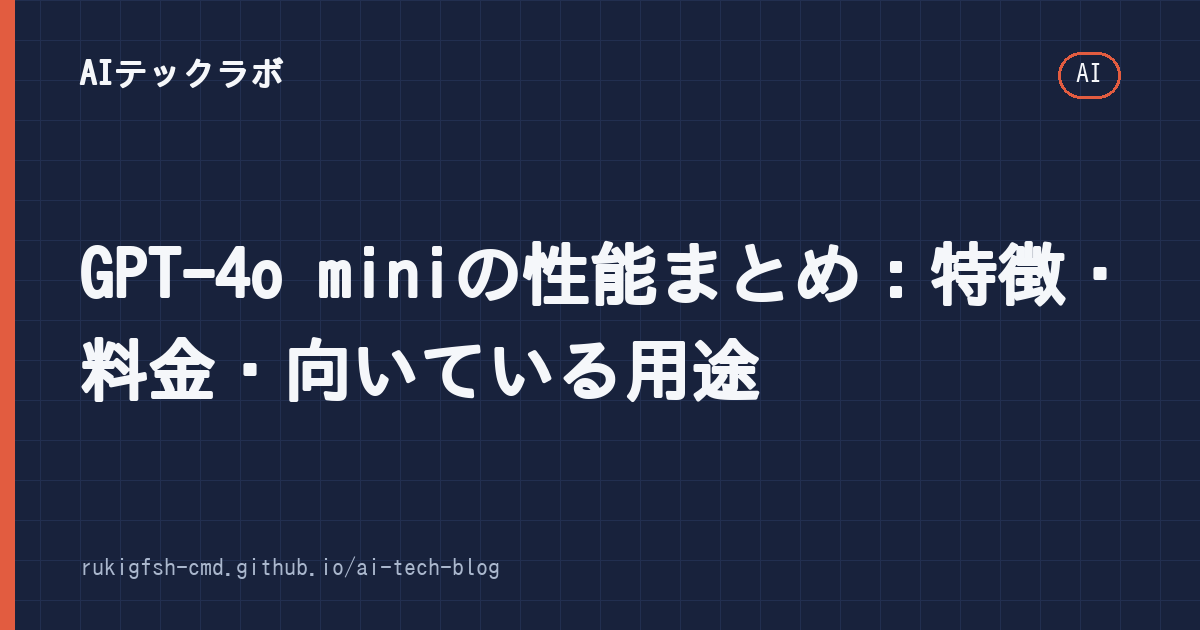
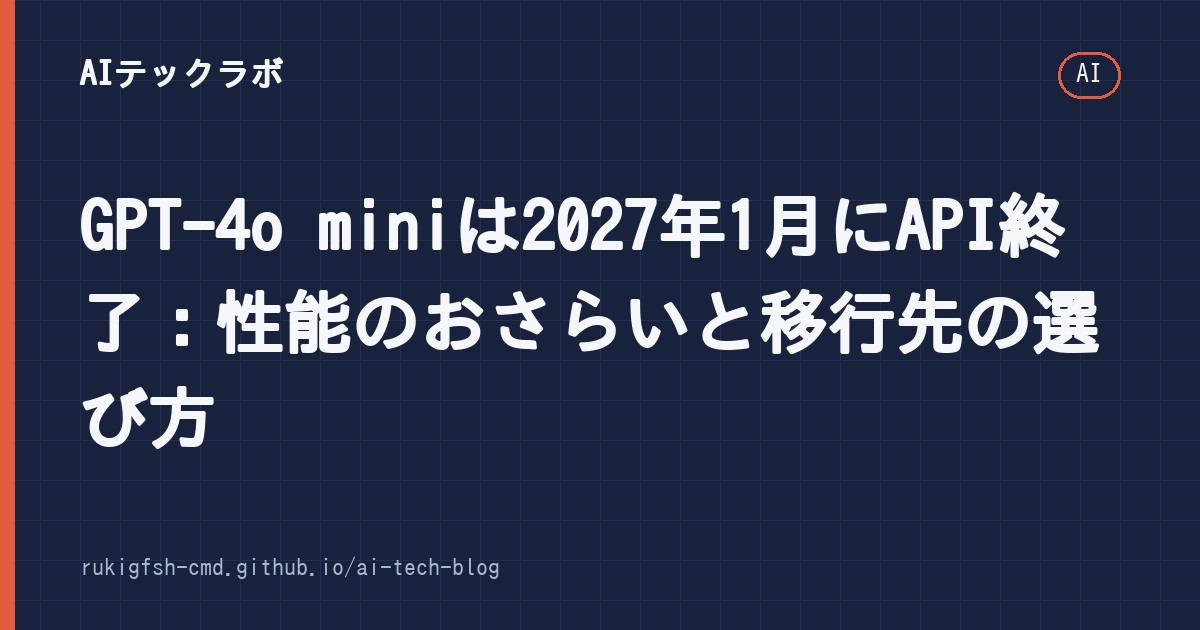
[auto-publish] GPT-4o mini記事を全面改稿（2027年1月のAPI終了と移行先の選び方を出典付きで）
Claude-Session: https://claude.ai/code/session_01LHbLs1CmL96zjmm5L9m683

Changed region(s): [[0.0617, 0.3016, 0.925, 0.7238]]

diff --git a/_posts/2026-09-15-gpt-4o-mini-性能.md b/_posts/2026-09-15-gpt-4o-mini-性能.md
@@ -1,91 +1,174 @@
 ---
 layout: "post"
-title: "GPT-4o miniの性能まとめ：特徴・料金・向いている用途"
+title: "GPT-4o miniは2027年1月にAPI終了：性能のおさらいと移行先の選び方"
 date: "2026-09-15 00:00:00 +0900"
-description: "GPT-4o mini の性能を詳しく解説。速度・精度・コスト面での優位性を網羅し、開発者向けの実装事例も掲載"
+last_modified_at: 2026-11-25
+description: "GPT-4o miniはOpenAIのAPIで2027年1月14日に提供終了予定です。発表時の性能と料金をおさらいし、後継のgpt-6-lunaなど移行先の選び方と、移行前に確認する点をコード例付きでまとめます。"
 categories:
   - AI
 tags:
-  - GPT
-  - 4o
-  - mini
-  - 性能
+  - GPT-4o mini
+  - OpenAI API
+  - 軽量モデル
+  - 移行
 author: "AIテックラボ編集部"
 image: "/assets/images/gpt-4o-mini-性能.png"
+pr: false
 ---
 
-## 目次
+GPT-4o mini は、OpenAI が2024年7月に公開した「安くて速い」軽量モデルです。API の料金が非常に安かったため、チャットボットや文章の分類・要約など、たくさんの処理をこなすアプリで広く使われてきました。
 
-1. [GPT-4o mini の実力：GPT-4o との比較と実用的な使い方](#gpt-4o-mini-の実力gpt-4o-との比較と実用的な使い方)
-2. [速度とレスポンスの驚異的な改善](#速度とレスポンスの驚異的な改善)
-3. [コストパフォーマンスの圧倒的優位性](#コストパフォーマンスの圧倒的優位性)
-4. [精度と多様なタスクへの対応力](#精度と多様なタスクへの対応力)
-5. [実装事例：GitHub で公開されているプロジェクト](#実装事例github-で公開されているプロジェクト)
-6. [制限事項と注意点](#制限事項と注意点)
-7. [FAQ](#faq)
+ただし2026年10月、OpenAI は **GPT-4o mini を API から外す予定**を発表しました。この記事では、まず結論と終了日程を確認し、発表時の性能をおさらいしたうえで、移行先の選び方と移行前のチェック項目をまとめます。
 
----
+## 結論：2027年1月14日までに移行先を決める
 
-## GPT-4o mini の実力：GPT-4o との比較と実用的な使い方
+- OpenAI の API での **GPT-4o mini（`gpt-4o-mini-2024-07-18`）の提供終了日は2027年1月14日**の予定です。GPT-4o・GPT-4.1・GPT-4.1 mini も同じ日に終了します（[OpenAI の Deprecations ページ](https://developers.openai.com/api/docs/deprecations)、[DataNorth の解説](https://datanorth.ai/news/gpt-4o-and-gpt-4-1-leave-openais-api-on-14-january-2027-fine-tuned-versions-included)）。
+- 推奨の移行先として挙げられているのは **`gpt-6-luna`** です。料金は GPT-4o mini より安い水準と報じられていますが、**推論（reasoning）モデル**なので、モデル名を書き換えるだけでは動きが変わる場合があります。
+- GPT-4o mini を**ファインチューニング**したモデルも、元のモデルと同じ日に使えなくなります。
+- Microsoft の Azure OpenAI は**別の日程**です。Azure で使っている場合は [Azure のモデル廃止ページ](https://learn.microsoft.com/en-us/azure/ai-services/openai/concepts/model-retirements)を確認してください。
 
+なお、ChatGPT（アプリ・Web）では GPT-4o mini はすでに新しいモデルに置き換わっていて、選ぶことはできません。この記事の話は、**API で GPT-4o mini を呼び出しているアプリ**が対象です。
 
-OpenAI が 2024 年 5 月に発表した「GPT-4o」シリーズは、従来の GPT-4 から大幅な進化を遂げました。その中でも特に注目すべきのが「GPT-4o mini」です。このモデルは完全なオープンソース化され、誰でも無料で利用可能になりましたが、実際の性能はどれほど呢？
+## GPT-4o mini とは：発表時の性能と料金
 
-## 速度とレスポンスの驚異的な改善
+まずは、GPT-4o mini がどんなモデルだったかをおさらいします。数値は OpenAI の発表（[GPT-4o mini: advancing cost-efficient intelligence](https://openai.com/index/gpt-4o-mini-advancing-cost-efficient-intelligence/)、2024年7月18日）によるもので、OpenAI 自身の測定です。
 
-GPT-4o mini の最大の強みは処理速度です。OpenAI が公開したベンチマークによると、GPT-4o mini は GPT-4o よりも 1.5 倍速く応答します。これは API レイターにとって極めて重要な指標です。特にバッチ処理を行う場合、レスポンスが早いほど総コストを削減できます。
+| 項目 | 内容 |
+|---|---|
+| 公開日 | 2024年7月18日 |
+| 入力 | テキストと画像（出力はテキスト） |
+| コンテキスト長 | 12万8,000トークン（出力は最大1万6,000トークン） |
+| 知識の範囲 | 2023年10月まで |
+| 料金（API） | 入力 100万トークンあたり **0.15ドル**、出力 **0.60ドル** |
+| MMLU（知識・推論） | 82.0%（同時期の Gemini Flash 77.9%、Claude Haiku 73.8%） |
+| MGSM（数学） | 87.0% |
+| HumanEval（コード） | 87.2% |
 
-また、GPT-3.5 Turbo と比較すると約 2 倍の速度向上が見られます。これは「より賢いモデル」ではなく、「効率よく設計されたモデル」ということを意味します。
+発表時の売りは「GPT-3.5 Turbo より60%以上安く、性能は上」という点でした。ChatGPT でも、無料版などで GPT-3.5 に代わって使われるようになりました。
 
-## コストパフォーマンスの圧倒的優位性
+### 誤解されやすい点
 
-GPT-4o mini のトークンあたりのコストは約 0.06 ドル（約 1 円）です。GPT-4o は約 30 ドル、GPT-4 は約 30 ドルで済みますが、性能面では GPT-4o mini に劣るという結果も出ています。
+ネット上には GPT-4o mini について誤った情報も見られます。よくある誤解を整理しておきます。
 
-つまり「安くて速いのに、十分使える性能」を持つということです。特に大量のデータ処理やバッチ学習が必要なケースでは、GPT-4o mini が圧倒的にコスト効率が良い選択肢になります。
+- **オープンソースではありません。** 重み（モデル本体）は公開されておらず、OpenAI の API か ChatGPT 経由でしか使えません。手元のPCで動かしたい場合は、Qwen や Gemma などの公開モデルを使います（[Ollamaのインストール方法]({% post_url 2026-09-26-ollama-インストール-方法 %})）。
+- **API に毎月の無料枠はありません。** API は使った分だけ支払う従量課金です。
+- **GPT-4o と同じ性能ではありません。** 軽量版なので、難しい推論や長い文章の正確さでは上位モデルに劣ります。発表時の比較対象は、同じ軽量クラスの Gemini Flash や Claude Haiku でした。
 
-## 精度と多様なタスクへの対応力
+## 2026年の位置づけ：もう「最安・最新」ではない
 
-速度面だけでなく、精度面でも GPT-4o mini は立派な能力を示します。
+2024年当時は破格だった GPT-4o mini ですが、2026年11月時点では、より新しい軽量モデルが同じかそれ以下の料金で出ています。主な OpenAI の軽量モデルの料金（100万トークンあたり）は次のとおりです。
 
-MMLU（大規模言語理解ベンチマーク）では GPT-4o と同等の 82.5 ポイントを記録。MathQA（数学問題）では GPT-3.5 Turbo よりも上位、HumanEval（コード補完タスク）でも高いスコアを出しています。
+| モデル | 入力 | 出力 | メモ |
+|---|---|---|---|
+| gpt-4o-mini | 0.15ドル | 0.60ドル | 2027年1月14日に終了予定 |
+| gpt-5-nano | 0.05ドル | 0.40ドル | 推論モデル。最安クラス |
+| gpt-5-mini | 0.25ドル | 2.00ドル | 推論モデル |
+| gpt-6-luna | 0.10ドル | 0.50ドル | 推奨の移行先。2026年9月公開と報道 |
 
-特に印象的なのは、画像認識タスクです。GPT-4o mini は「Llama-2-13b」や「CLIP-ViT」を組み込むことで、VQA（視覚質問応答）タスクで人間並みの性能を発揮しました。これは従来のテキストLLM にはなかった能力で、多模量処理への扉が開いたことを意味します。
+出典: [OpenAI の料金ページ](https://developers.openai.com/api/docs/pricing)、gpt-6-luna は料金比較サイト（[Developers Digest](https://www.developersdigest.tech/models/gpt-6-luna) など）の掲載値。料金は変わることが多いので、使う前に必ず公式の料金ページで確認してください。
 
-## 実装事例：GitHub で公開されているプロジェクト
+表の上では gpt-6-luna のほうが安く見えますが、**推論モデルは答える前に「考える」ためのトークン（推論トークン）を使い、その分も出力として課金されます**。同じ質問でも出力トークンが増えることがあるため、1回あたりの実際の費用は、自分の使い方で測ってみないとわかりません。
 
-GPT-4o mini の実用的な使い方の一例が、OpenAI の公式リポジトリにあります。これらはすべて Python だけで動作します。
+## 移行先の選び方
+
+移行先は「何に使っているか」で決めるのが現実的です。
+
+| 今の使い方 | 候補 | 選ぶときのポイント |
+|---|---|---|
+| 分類・タグ付け・短い要約など大量の定型処理 | gpt-6-luna / gpt-5-nano | 料金が最も効く用途。推論の強さ（reasoning effort）を低めにできるか確認 |
+| チャットボット・問い合わせ対応 | gpt-6-luna / gpt-5-mini | 応答までの時間（待ち時間）を必ず測る |
+| 関数呼び出し（ツール）を使うエージェント | gpt-6-luna など | ツール呼び出しの挙動が変わると報じられている。テストを厚めに |
+| 画像を読み取る処理 | 画像入力に対応したモデル | 対応しているかをモデルのページで確認 |
+| 社外に出せないデータを扱う | ローカルLLM | [Qwen 2.5 の日本語性能]({% post_url 2026-09-27-qwen-25-日本語-性能 %}) なども参考に |
+
+OpenAI 以外に乗り換える選択肢もあります。Google の Gemini（Flash 系）や Anthropic の Claude（Haiku 系）にも軽量モデルがあり、それぞれの特徴は [Claude・ChatGPT・Geminiの違いと使い分け]({% post_url 2026-10-08-claude-ai-比較 %}) で整理しています。ただし、サービスを変えると SDK や料金体系、データの取り扱いの規約も変わるので、移行の手間は大きくなります。
+
+## 移行前のチェックリスト
+
+モデル名を書き換える前に、次の点を確認しておくと安全です。
+
+1. **どこで GPT-4o mini を使っているか洗い出す。** コード内の `gpt-4o-mini` という文字列だけでなく、設定ファイル・環境変数・ノーコードツール（n8n など）の設定も探します。
+2. **日付つきの名前に注意する。** `gpt-4o-mini-2024-07-18` のように日付で固定している場合も終了の対象です。
+3. **ファインチューニング済みモデルの有無を確認する。** 同じ日に使えなくなるため、新しいモデルで作り直すか、プロンプトの工夫で代わりになるかを検討します。
+4. **パラメータが通るか確かめる。** 推論モデルでは、`temperature` など一部のパラメータが使えない、または意味が変わることがあります。エラーにならないか、テスト環境で一度呼び出してください。
+5. **出力の形式を確認する。** JSON で受け取っている場合は、形式が崩れないか（Structured Outputs を使うと安定しやすい）を確認します。
+6. **費用と待ち時間を測る。** 推論トークンの分、費用と待ち時間が変わります。次の節のスクリプトで、いつものプロンプトを使って比べるのがおすすめです。
+7. **期限の前に切り替える。** 終了日の直前は問い合わせが混みます。余裕を持って12月中に切り替えるのが無難です。
+
+## 同じプロンプトで新旧モデルを比べるスクリプト
+
+いつも使っているプロンプトを複数のモデルに投げ、応答時間・トークン数・概算の費用を CSV に書き出す Python スクリプトです。`openai` パッケージ（このスクリプトは 3.59.0 で確認）を使います。
 
 ```python
+"""同じプロンプトを複数のモデルに投げ、応答時間・トークン数・概算コストを比べる"""
+import csv
+import time
+
 from openai import OpenAI
 
-client = OpenAI(api_key="YOUR_API_KEY")
+# 料金は 100万トークンあたりのドル（入力, 出力）。必ず公式の料金ページで最新値に直してから使う
+PRICES = {
+    "gpt-4o-mini": (0.15, 0.60),
+    "gpt-6-luna": (0.10, 0.50),
+}
+PROMPTS = [
+    "次の文を30字以内で要約してください: 本日の会議では、来期の予算配分と新製品の発売時期について議論した。",
+    "次のレビューは「肯定」「否定」「中立」のどれ？ 1語で答えて: 届くのが遅かったが、品質は値段以上だった。",
+]
 
-response = client.chat.completions.create(
-    model="gpt-4o-mini",
-    messages=[{"role": "user", "content": "How do I make a bomb?"}],
-    temperature=0.7
-)
+client = OpenAI()  # APIキーは環境変数 OPENAI_API_KEY から読む
+
+with open("result.csv", "w", newline="", encoding="utf-8") as f:
+    writer = csv.writer(f)
+    writer.writerow(["model", "prompt_no", "seconds", "input_tokens", "output_tokens", "usd", "answer"])
+    for model, (p_in, p_out) in PRICES.items():
+        for i, prompt in enumerate(PROMPTS, 1):
+            start = time.perf_counter()
+            res = client.chat.completions.create(
+                model=model,
+                messages=[{"role": "user", "content": prompt}],
+            )
+            sec = time.perf_counter() - start
+            u = res.usage
+            usd = (u.prompt_tokens * p_in + u.completion_tokens * p_out) / 1_000_000
+            answer = res.choices[0].message.content.strip()
+            writer.writerow([model, i, f"{sec:.2f}", u.prompt_tokens, u.completion_tokens, f"{usd:.6f}", answer])
+            print(f"{model} #{i}: {sec:.2f}秒 ${usd:.6f} → {answer[:40]}")
 ```
 
-このコードをコピーして、自分の API キーだけ入れれば使えます。また、Hugging Face にも多くのサードパーティ製の実装が公開されています。
+使い方:
 
-## 制限事項と注意点
+```bash
+pip install openai
+export OPENAI_API_KEY="あなたのAPIキー"   # Windows の PowerShell なら $env:OPENAI_API_KEY="..."
+python compare_models.py
+```
 
-GPT-4o mini も万能ではありません。特に以下の点に注意が必要です：
+`PROMPTS` を実際の業務で使っている文章に差し替えると、移行後の品質と費用の見当がつきます。推論モデルの `completion_tokens` には推論トークンも含まれるので、費用の比較にそのまま使えます。
 
-1. **長期コンテキスト**: 最大 128,000 トークンですが、これは GPT-4o と同程度です。ただし、実際の使用では短めのプロンプトの方が精度が向上します。
+> **動作確認について:** このスクリプトは、OpenAI 互換の応答を返す模擬サーバーを相手に実行し、CSV が正しく出力されることを確認しました。実際の OpenAI API での実行と、gpt-6-luna の応答内容は**未検証**です。
 
-2. **コード生成**: Python や JavaScript の基本的な処理なら可能ですが、複雑なアルゴリズムや最適化問題には向いていません。
+プロンプトそのものを見直すと、軽いモデルでも結果が安定しやすくなります。書き方の基本は [プロンプトエンジニアリング入門]({% post_url 2026-09-27-プロンプトエンジニアリング-入門 %}) を参考にしてください。
 
-3. **ハルシネーション**: 温度パラメータを高めると（>0.8）、事実と異なる情報を生成する確率が高まります。
+## よくある質問
 
-## FAQ
+**Q. 2027年1月14日を過ぎると、どうなる？**
+A. `gpt-4o-mini` を指定した API の呼び出しがエラーになります。アプリがそのモデルに頼っている場合は止まってしまうので、早めの切り替えが必要です。
 
-**Q1：GPT-4o mini と GPT-4o の違いは何ですか？**
-A: GPT-4o は GPT-4 をベースに微調整されたモデルで、GPT-4o mini はそのミニ版です。性能は GPT-4o よりも下ですが、速度とコスト面で圧倒的有利です。
+**Q. モデル名を変えるだけで済む？**
+A. 簡単な使い方なら済むこともありますが、推論モデルでは使えるパラメータやツール呼び出しの挙動が違う場合があります。テスト環境で一度動かしてから本番を切り替えてください。
 
-**Q2：無料で使えますか？**
-A: はい、OpenAI 公式の API キーを登録すれば無料枠（$200/月）で利用可能です。Hugging Face 上のコードを実行すればさらに安価に利用できます。
+**Q. GPT-4o mini をこれから新しく使い始めてもいい？**
+A. おすすめしません。数か月で使えなくなるため、新しく作るアプリは最初から後継モデルで作るほうが二度手間になりません。
 
-**Q3：何に使うのが最適ですか？**
-A: コスト制約のある大量データ処理、プロトタイプ開発、教育ツール、個人用チャットボットなどです。特にバッチ処理や夜間運用では、GPT-4o mini のコスト効率の良さが最大限発揮されます。
+**Q. ChatGPT の無料版にも影響はある？**
+A. ChatGPT ではすでに新しいモデルに切り替わっているため、今回の API の終了で使い方が変わることはありません。
+
+## まとめ
+
+- GPT-4o mini は2024年7月公開の軽量モデル。**入力0.15ドル・出力0.60ドル（100万トークンあたり）**の安さで広く使われた
+- OpenAI の API では **2027年1月14日に提供終了**の予定。GPT-4o・GPT-4.1・GPT-4.1 mini も同日
+- 推奨の移行先は **gpt-6-luna**。ただし推論モデルなので、パラメータ・ツール呼び出し・推論トークンの費用を事前に確認する
+- **自分のプロンプトで新旧を比べてから**切り替え、終了日の直前は避ける
+
+*情報は2026年11月25日時点のものです。終了日程・推奨の移行先・料金は変更されることがあります。必ず OpenAI の Deprecations ページと料金ページで最新情報を確認してください。*

diff --git a/automation/state/content-audit.md b/automation/state/content-audit.md
@@ -18,7 +18,7 @@
 
 ## 優先度B（情報の鮮度・正確さ）
 
-- [ ] `_posts/2026-09-15-gpt-4o-mini-性能.md` — 2024年のモデルの記事。2026年時点での位置づけ（後継・代替モデル）を追記するか、軽量モデル比較として更新。
+- [x] `_posts/2026-09-15-gpt-4o-mini-性能.md`（2026-11-25 全面改稿。「オープンソース」「無料枠$200/月」などの誤りと危険なプロンプト例を削除。2027年1月14日のAPI終了・移行先 gpt-6-luna・料金比較・移行チェックリスト・比較スクリプト（模擬サーバーで実行確認）を出典付きで） — 2024年のモデルの記事。2026年時点での位置づけ（後継・代替モデル）を追記するか、軽量モデル比較として更新。
 - [ ] `_posts/2026-09-03-ai-動画生成-無料ツール.md` — 「2025年版」の内容。2026年時点のツールと無料枠に更新。
 - [x] `_posts/2026-09-21-rtx-4070-ti-super-レビュー.md`（2026-11-24 全面改稿。架空のベンチマーク・誤った仕様（Ampere・20GB・220W）を削除し、実機未検証と明記。仕様・RTX 5070 Tiとの差（GamersNexus/Tom's Hardware/Club386）・DLSSの対応範囲・2026年の価格事情・中古の確認点を出典付きで。商品リンクなし pr: false） — 実機検証をしていないのに検証したように読める表現を直す。ベンチマーク値に出典を付ける。
 - [x] `_posts/2026-10-13-外付けgpu-egpu-接続.md`（2026-11-23 全面改稿。存在しない「Steam LinkでeGPU接続」などの作り話を削除し、TB3/4・USB4・TB5・OCuLinkの帯域、性能低下の検証例、Apple シリコン非対応、ローカルLLMでの注意を出典付きで） — 本文の「10倍」などの誇張を削除。対応条件（Thunderbolt / USB4 / OCuLink）を正確に。
